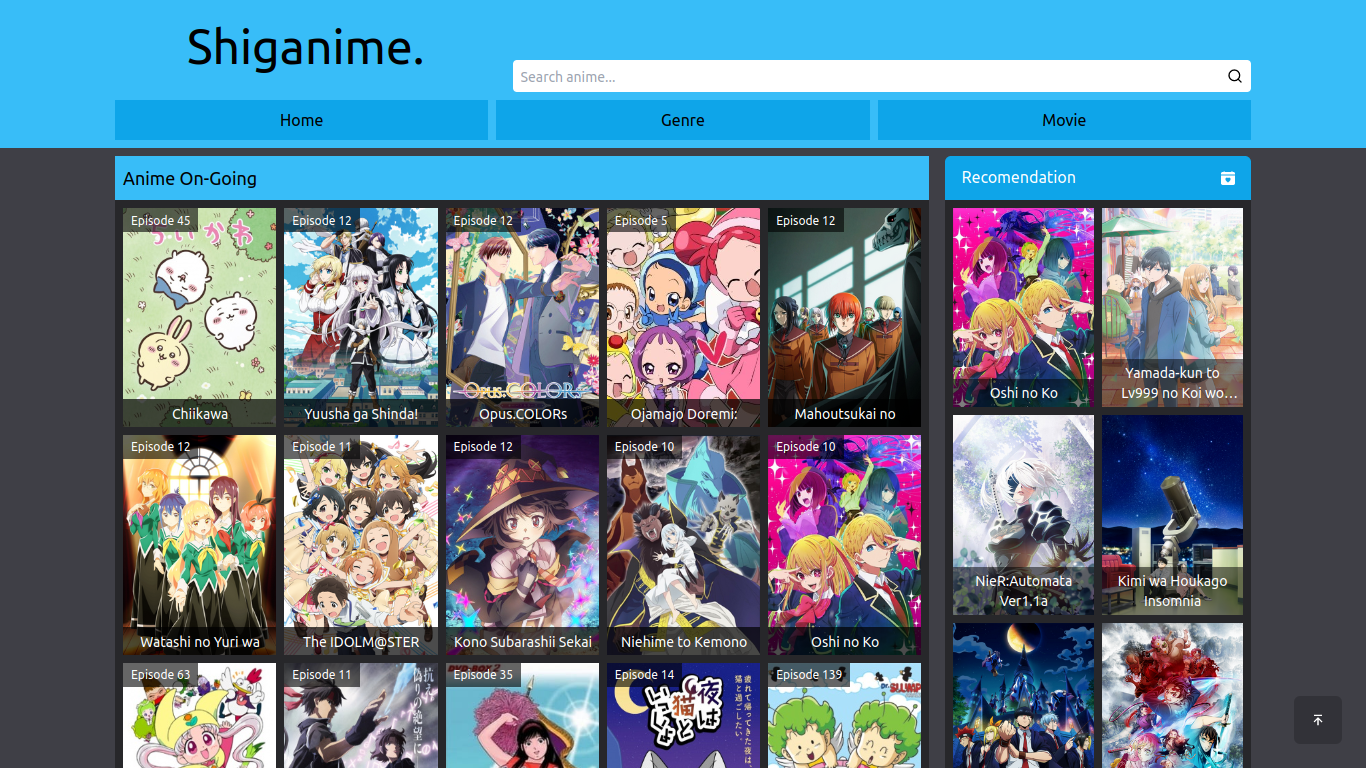
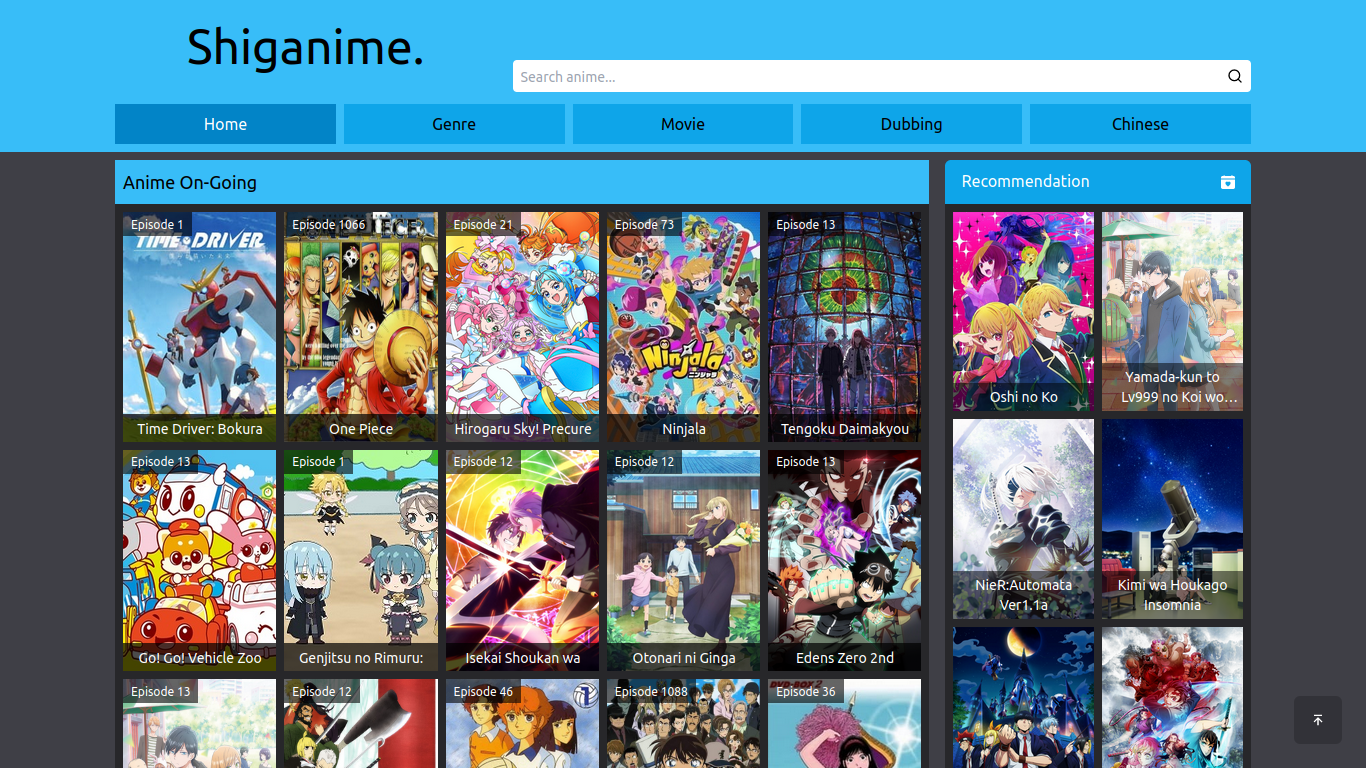
update & add dubbing, chinese pages

diff --git a/src/layouts/Navbar.jsx b/src/layouts/Navbar.jsx
@@ -3,9 +3,33 @@ import { FiSearch } from 'react-icons/fi'
 import { useEffect, useState } from 'react'
 import { Link, useNavigate } from 'react-router-dom'
 
+const navbar = [
+  {
+    name: 'Home',
+    path: '/',
+  },
+  {
+    name: 'Genre',
+    path: '/genre-list',
+  },
+  {
+    name: 'Movie',
+    path: '/movie',
+  },
+  {
+    name: 'Dubbing',
+    path: '/dubbing',
+  },
+  {
+    name: 'Chinese',
+    path: '/chinese',
+  },
+]
+
 export default function Navbar() {
   const [slider, setSlider] = useState(false)
   const [value, setValue] = useState('')
+  const [target, setTarget] = useState('')
   const navigate = useNavigate()
 
   const search = (e) => {
@@ -16,6 +40,15 @@ export default function Navbar() {
       }
     }
   }
+
+  useEffect(() => {
+    if (location.pathname === '/') {
+      setTarget('/home')
+    } else {
+      setTarget(location.pathname)
+    }
+  }, [])
+
   return (
     <>
       <nav className='bg-sky-400'>
@@ -51,71 +84,48 @@ export default function Navbar() {
               </div>
             </div>
           </div>
-          {slider && <NavSlider />}
-          <NavBottom />
+          {slider && (
+            <>
+              <ul className='overflow-hidden text-sm p-2 md:hidden bg-sky-500 text-white space-y-2'>
+                {navbar.map(({ name, path }) => {
+                  let newPathTarget = path === '/' ? '/home' : path
+                  return (
+                    <li key={name}>
+                      <Link
+                        to={path}
+                        className={`${
+                          target === newPathTarget && 'bg-sky-400'
+                        } block p-2 hover:bg-sky-400`}
+                      >
+                        {name}
+                      </Link>
+                    </li>
+                  )
+                })}
+              </ul>
+            </>
+          )}
+          <ul className='hidden md:flex justify-between p-2 gap-2'>
+            {navbar.map(({ name, path }) => {
+              let newPathTarget = path === '/' ? '/home' : path
+              return (
+                <li
+                  key={name}
+                  className={`${
+                    target === newPathTarget && 'bg-sky-600 text-white'
+                  } flex-1 text-center overflow-hidden bg-sky-500 hover:bg-sky-600 hover:text-white`}
+                >
+                  <Link to={path} className='py-2 block'>
+                    {name}
+                  </Link>
+                </li>
+              )
+            })}
+          </ul>
         </div>
       </nav>
       <BackToTop />
     </>
-  )
-}
-
-function NavSlider() {
-  return (
-    <div className='text-sm p-2 md:hidden bg-sky-500 text-white [&>ul>li]:py-2'>
-      <ul className='overflow-hidden'>
-        <li>
-          <Link to='/' className='pr-[100%] box-content p-2 rounded hover:bg-sky-400'>
-            Home
-          </Link>
-        </li>
-        <li>
-          <Link
-            to='/genre-list'
-            className='pr-[100%] box-content p-2 hover:bg-sky-400'
-          >
-            Genre
-          </Link>
-        </li>
-        <li>
-          <Link
-            to='/movie'
-            className='pr-[100%] box-content p-2 hover:bg-sky-400'
-          >
-            Movie
-          </Link>
-        </li>
-      </ul>
-    </div>
-  )
-}
-function NavBottom() {
-  return (
-    <div className='hidden md:block'>
-      <ul className='flex justify-between px-2 pb-2 pt-1 gap-2 [&>li]:bg-sky-500'>
-        <li className='flex-1 text-center overflow-hidden'>
-          <Link to='/' className='py-2 block hover:bg-sky-600 hover:text-white'>
-            Home
-          </Link>
-        </li>
-        <li className='flex-1 text-center overflow-hidden'>
-          <Link
-            to='/genre-list'
-            className='py-2 block hover:bg-sky-600 hover:text-white'
-          >
-            Genre
-          </Link>
-        </li>
-        <li className='flex-1 text-center overflow-hidden'>
-          <Link
-            to='/movie'
-            className='py-2 block hover:bg-sky-600 hover:text-white'
-          >
-            Movie
-          </Link>
-        </li>
-      </ul>
-    </div>
   )
 }
 

diff --git a/src/pages/Chinese.jsx b/src/pages/Chinese.jsx
@@ -13,7 +13,7 @@ import { arrayLength } from '../arrayLength'
 export default function Home() {
   const [recent, setRecent] = useState([])
   const [loading, setLoading] = useState(true)
-  const url = `${import.meta.env.VITE_URL}/recent-release?type=1&`
+  const url = `${import.meta.env.VITE_URL}/recent-release?type=3&`
 
   useEffect(() => {
     initRecent()
@@ -37,18 +37,18 @@ export default function Home() {
         <meta name='description' content='Watch anime subtitle English' />
         <meta
           name='keywords'
-          content='anime, streaming, Shiganime, streaming anime subtitle english, dubbing english'
+          content='anime, streaming, Shiganime, streaming anime subtitle english, dubbing english, anime chinese'
         />
         <meta name='author' content='Raditya Septian' />
         <meta name='viewport' content='width=device-width, initial-scale=1.0' />
-        <title>Shiganime - Watch Anime Subtitle English</title>
+        <title>Shiganime - Watch Anime Chinese Subtitle English</title>
       </Helmet>
       <div className='bg-zinc-700'>
         <Navbar />
         <Container>
           <Content
-            title='Anime On-Going'
-            pagination={375}
+            title='Anime On-Going Chinese'
+            pagination={49}
             onChange={handleChangePagination}
           >
             {loading ? (
@@ -60,10 +60,6 @@ export default function Home() {
             ) : (
               <>
                 {recent.map((item) => {
-                  const oshiNoKo = item.animeTitle == ''
-                  if (oshiNoKo) {
-                    item.animeTitle = 'Oshi no Ko'
-                  }
                   return (
                     <Card
                       key={item.animeId}

diff --git a/src/pages/Anime.jsx b/src/pages/Anime.jsx
@@ -51,8 +51,8 @@ export default function Anime() {
       <Navbar />
       <div className='pt-2 text-sm lg:text-md text-white bg-zinc-700'>
         <div className='bg-zinc-800 mx-auto max-w-5xl p-2'>
-          <div className='bg-sky-400 py-2 text-center text-black'>
-            <h1>Streaming {anime.animeTitle}</h1>
+          <div className='grid place-content-center bg-sky-400 p-2 text-center text-base text-black min-h-[2.73rem]'>
+            <h1>{anime.animeTitle}</h1>
           </div>
           <div className='flex justify-between pt-2'>
             {loading ? (
@@ -60,7 +60,7 @@ export default function Anime() {
                 <div className='flex-1 flex gap-2'>
                   <Skeleton className='w-32 h-48 md:w-36 md:h-52 lg:w-40 lg:h-60' />
                   <Skeleton
-                    count={9}
+                    count={6}
                     containerClassName='flex-1 lg:space-y-[.10rem]'
                     height={18}
                   />
@@ -130,8 +130,9 @@ export default function Anime() {
           <div className='mb-4 text-black pt-4'>
             <p className='bg-sky-500 py-2 pl-2'>LIST EPISODE</p>
             <ul className='overflow-y-auto max-h-[70vh]'>
-              {loading ? <Skeleton count={5} height={25} />
-               : (
+              {loading ? (
+                <Skeleton count={5} height={25} />
+              ) : (
                 <>
                   {anime.episodesList &&
                     anime.episodesList.map((list) => {

diff --git a/src/pages/Dubbing.jsx b/src/pages/Dubbing.jsx
@@ -13,7 +13,7 @@ import { arrayLength } from '../arrayLength'
 export default function Home() {
   const [recent, setRecent] = useState([])
   const [loading, setLoading] = useState(true)
-  const url = `${import.meta.env.VITE_URL}/recent-release?type=1&`
+  const url = `${import.meta.env.VITE_URL}/recent-release?type=2&`
 
   useEffect(() => {
     initRecent()
@@ -41,14 +41,14 @@ export default function Home() {
         />
         <meta name='author' content='Raditya Septian' />
         <meta name='viewport' content='width=device-width, initial-scale=1.0' />
-        <title>Shiganime - Watch Anime Subtitle English</title>
+        <title>Shiganime - Watch Anime Dubbing English</title>
       </Helmet>
       <div className='bg-zinc-700'>
         <Navbar />
         <Container>
           <Content
-            title='Anime On-Going'
-            pagination={375}
+            title='Anime On-Going Dubbing'
+            pagination={164}
             onChange={handleChangePagination}
           >
             {loading ? (

diff --git a/src/App.jsx b/src/App.jsx
@@ -1,6 +1,8 @@
 /* eslint-disable react-hooks/exhaustive-deps */
 import { Routes, Route, Navigate, BrowserRouter } from 'react-router-dom'
 import Home from './pages/Home'
+import Dubbing from './pages/Dubbing'
+import Chinese from './pages/Chinese'
 import Anime from './pages/Anime'
 import AnimeWatch from './pages/AnimeWatch'
 import Search from './pages/Search'
@@ -33,6 +35,8 @@ export default function App() {
               <Route path='search/:param' element={<Search />} />
               <Route path='anime/:id' element={<Anime />} />
               <Route path='movie' element={<Movie />} />
+              <Route path='dubbing' element={<Dubbing />} />
+              <Route path='chinese' element={<Chinese />} />
               <Route path='genre-list' element={<GenreList />} />
               <Route path='genre/:id' element={<Genre />} />
               <Route path='*' element={<Navigate to='/' />} />

diff --git a/src/components/Card.jsx b/src/components/Card.jsx
@@ -12,10 +12,10 @@ export default function Card({
   return (
     <li
       key={animeId}
-      className='relative text-sm text-center group overflow-hidden text-white'
+      className='relative text-sm text-center group overflow-hidden text-white max-h-60 sm:max-h-56 lg:max-h-60'
     >
       <Link to={`/anime/${animeId}`}>
-        <img src={animeImg} alt={animeTitle} className='h-full min-w-ful' />
+        <img src={animeImg} alt={animeTitle} className='h-full min-w-full' />
         <span
           className={`absolute bottom-0 -right-[1px] left-0 translate-y-9 px-2 py-1 h-16 group-hover:h-12 group-hover:translate-y-0 duration-500 line-clamp-2 bg-black/70`}
         >
